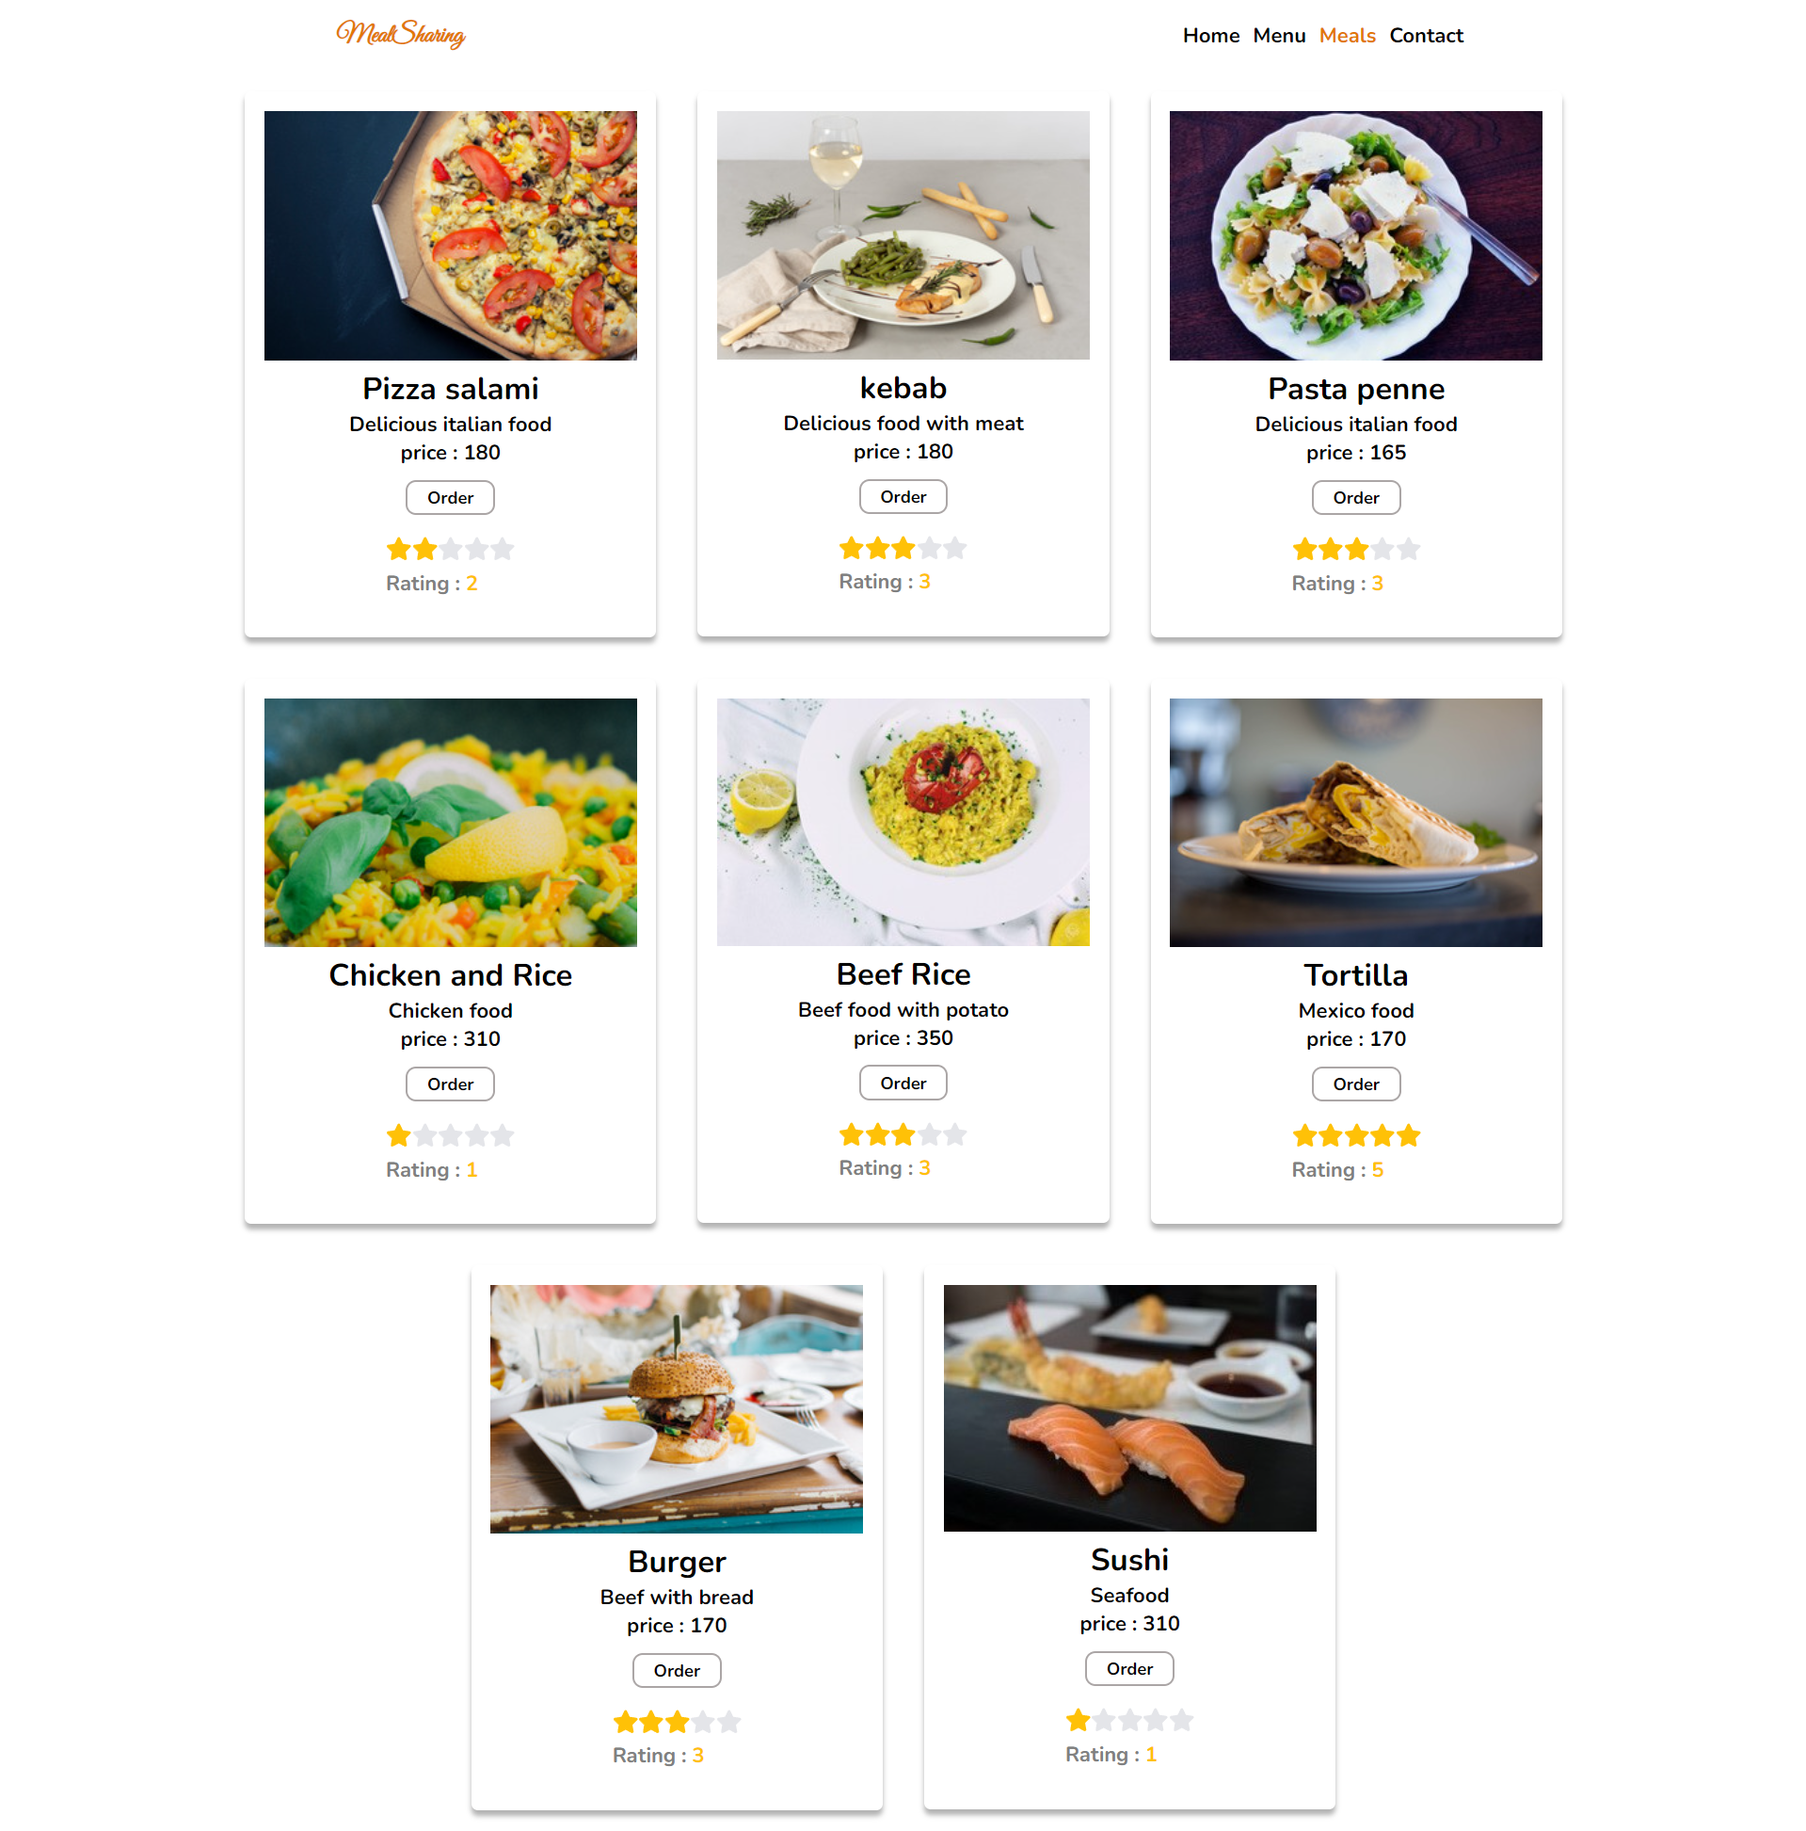
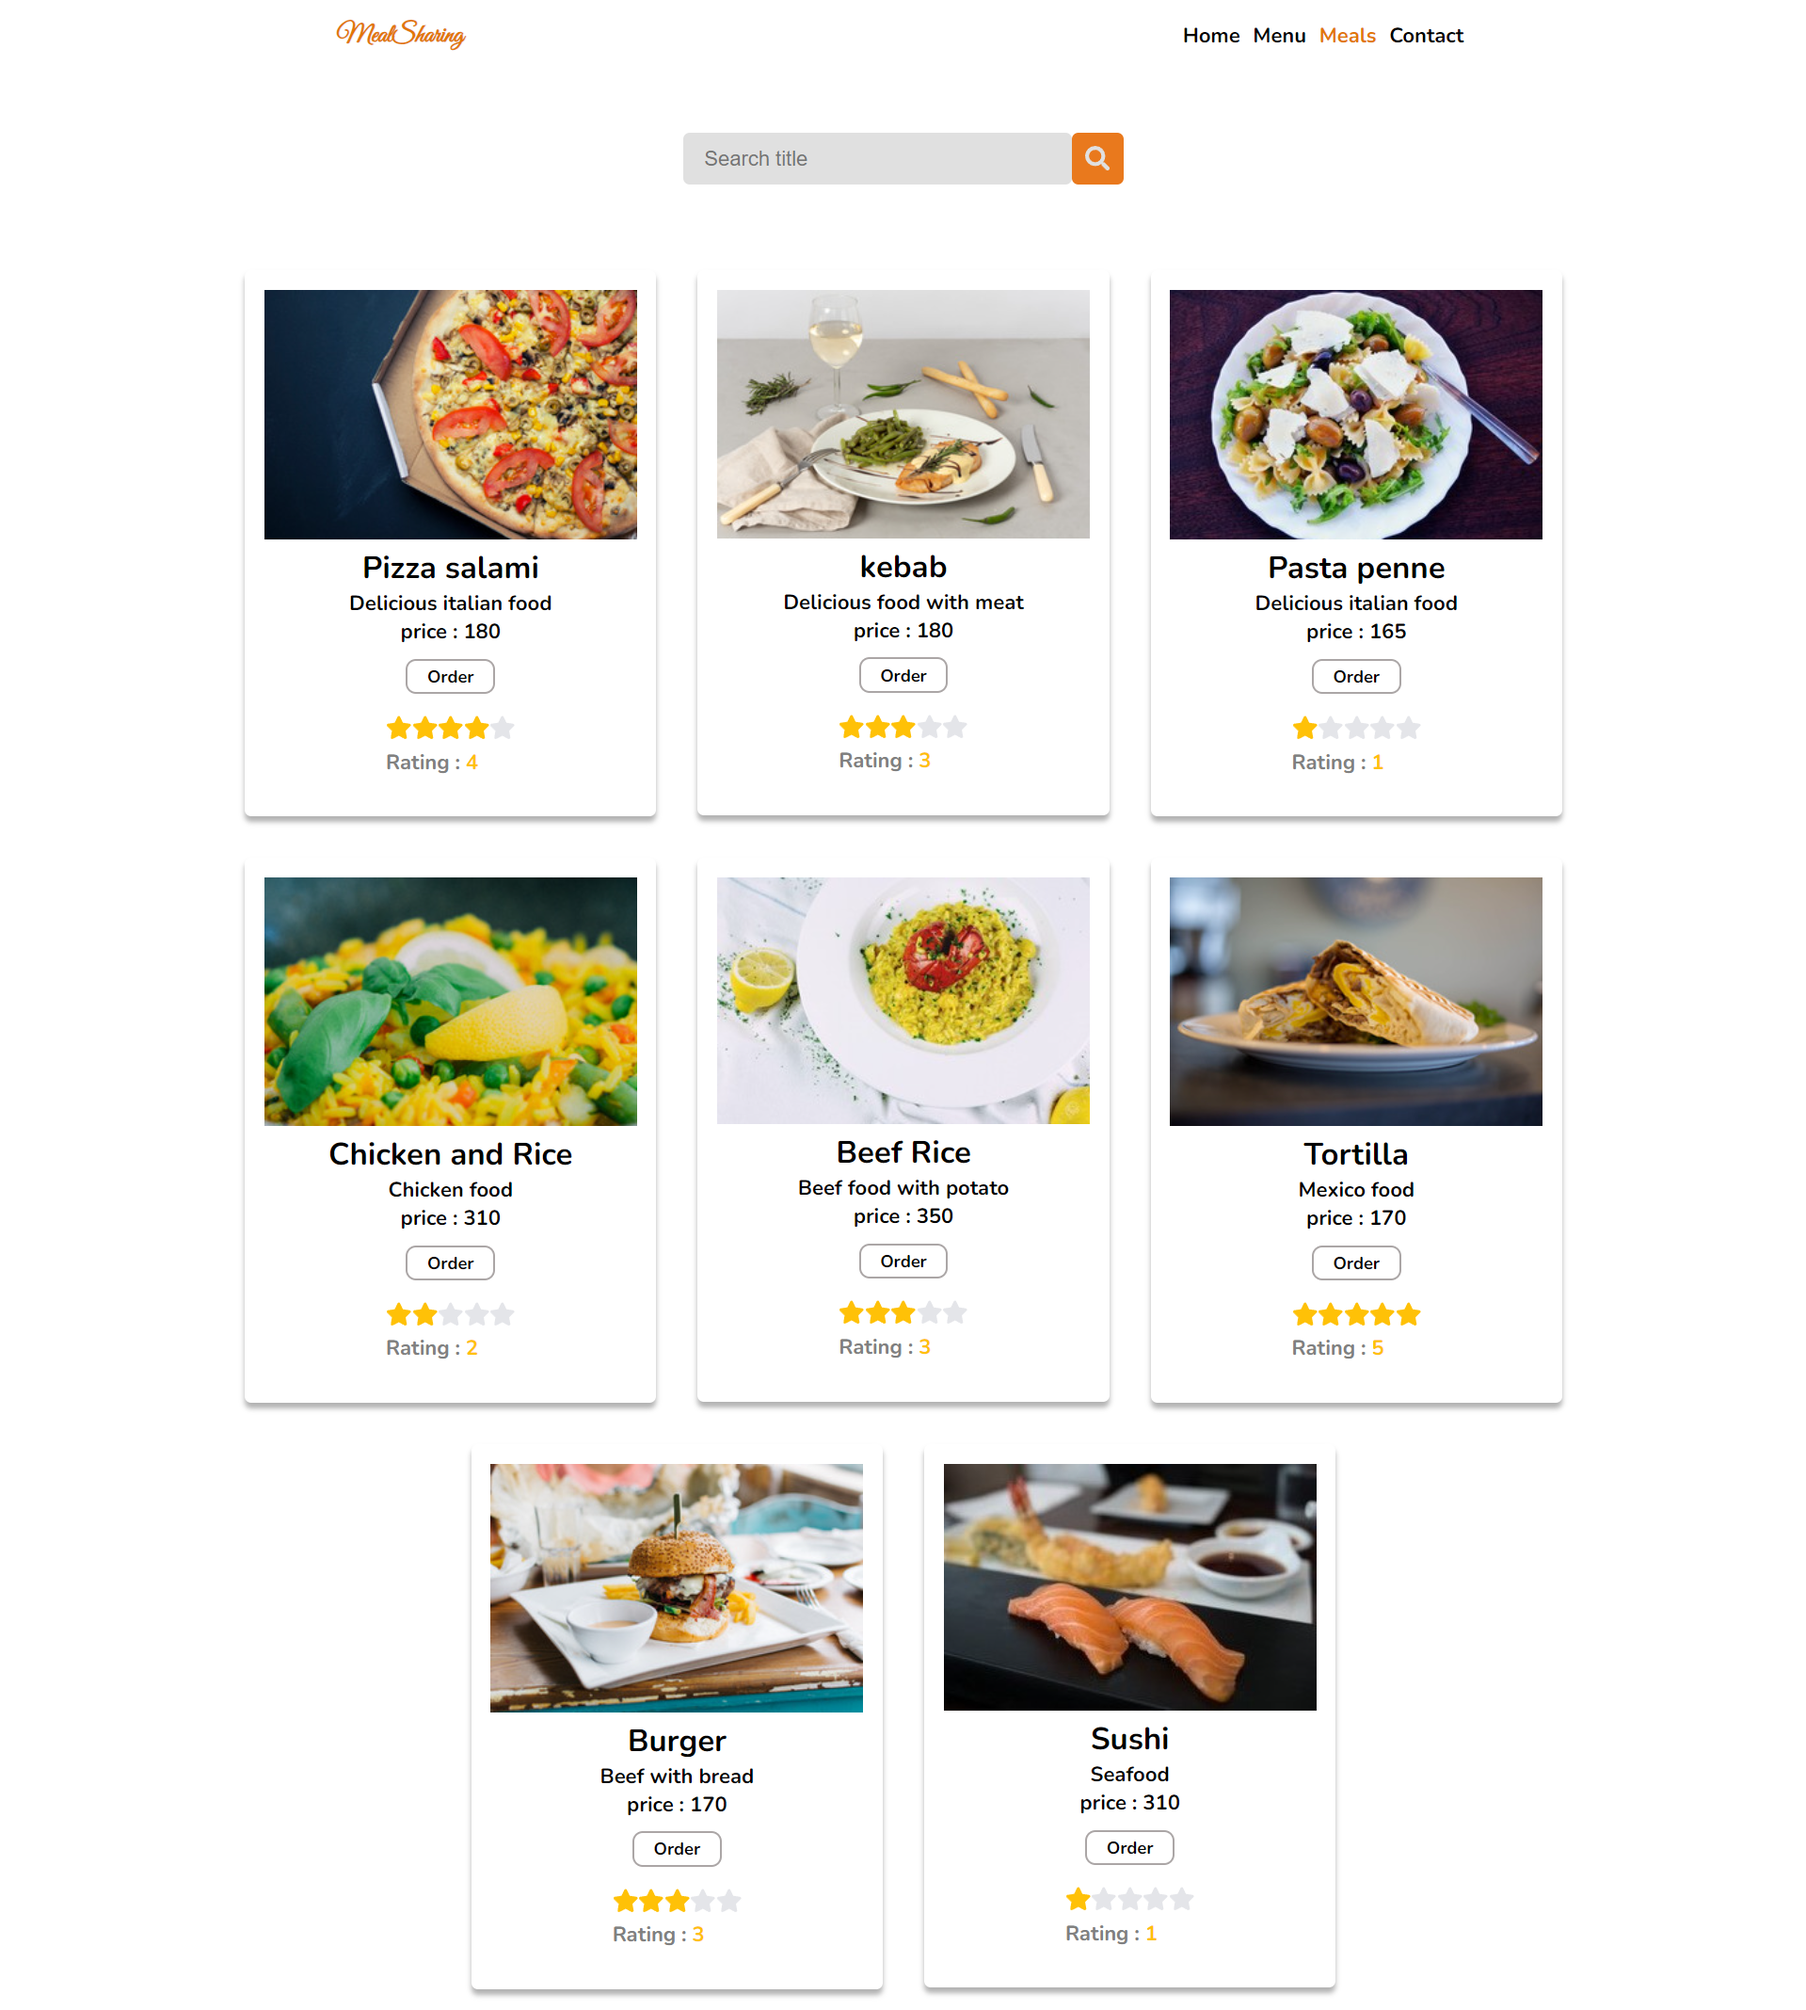
add search component

Changed region(s): [[0.123, 0.0617, 0.8609, 0.9871], [0.6456, 0.0, 0.7994, 0.0308], [0.1845, 0.0, 0.246, 0.0308]]

diff --git a/frontend/src/components/MealsList.jsx b/frontend/src/components/MealsList.jsx
@@ -1,10 +1,12 @@
 import React, { useState, useEffect } from "react";
 import axios from "axios";
 import MealItem from "./MealItem";
+import Search from "./SearchBox/Search";
 
 function MealsList() {
   const [meals, setMeals] = useState([]);
   const [loading, setLoading] = useState(true);
+  const [search, setSearch] = useState([]);
 
   useEffect(() => {
     const fetchData = async () => {
@@ -24,8 +26,23 @@ function MealsList() {
     fetchData();
   }, []);
 
+  const searchHandler = () => {
+    if (search) {
+      let searchMeals = {
+        data: meals.data,
+      };
+      searchMeals.data = meals.data.filter((meal) => {
+        return meal.title.toLowerCase().includes(search);
+      });
+      setMeals(searchMeals);
+    } else {
+      setMeals(meals);
+    }
+  };
+
   return (
     <>
+      <Search search={search} setSearch={setSearch} searchHandler={searchHandler} />
       <div className="meal-list">
         {loading ? (
           <p>Loading...</p>
@@ -37,7 +54,6 @@ function MealsList() {
       </div>
     </>
   );
-  
 }
 
 export default MealsList;

diff --git a/frontend/src/components/SearchBox/Search.css b/frontend/src/components/SearchBox/Search.css
@@ -1,0 +1,29 @@
+.search {
+  display: flex;
+  justify-content: center;
+  margin: 3rem;
+  margin-bottom: 50px;
+}
+.search input {
+  width: 300px;
+  height: 40px;
+  border: none;
+  border-radius: 5px;
+  padding: 1rem;
+  font-size: 1rem;
+  background-color: #e0e0e0;
+}
+.search input:focus {
+  outline: none;
+}
+.search button {
+  width: 40px;
+  height: 40px;
+  border: none;
+  border-radius: 5px;
+  font-size: 1.2rem;
+  background-color: #e9791d;
+  color: #e0e0e0;
+  cursor: pointer;
+  padding: 10px;
+}

diff --git a/frontend/src/components/SearchBox/Search.jsx b/frontend/src/components/SearchBox/Search.jsx
@@ -1,0 +1,20 @@
+import React from "react";
+import { FaSearch } from "react-icons/fa";
+import './Search.css'
+function Search({ search, setSearch, searchHandler }) {
+  return (
+    <div className="search">
+      <input
+        type="text"
+        placeholder="Search title"
+        value={search}
+        onChange={(e) => setSearch(e.target.value.toLowerCase().trim())}
+      />
+      <button onClick={searchHandler}>
+        <FaSearch />
+      </button>
+    </div>
+  );
+}
+
+export default Search;
